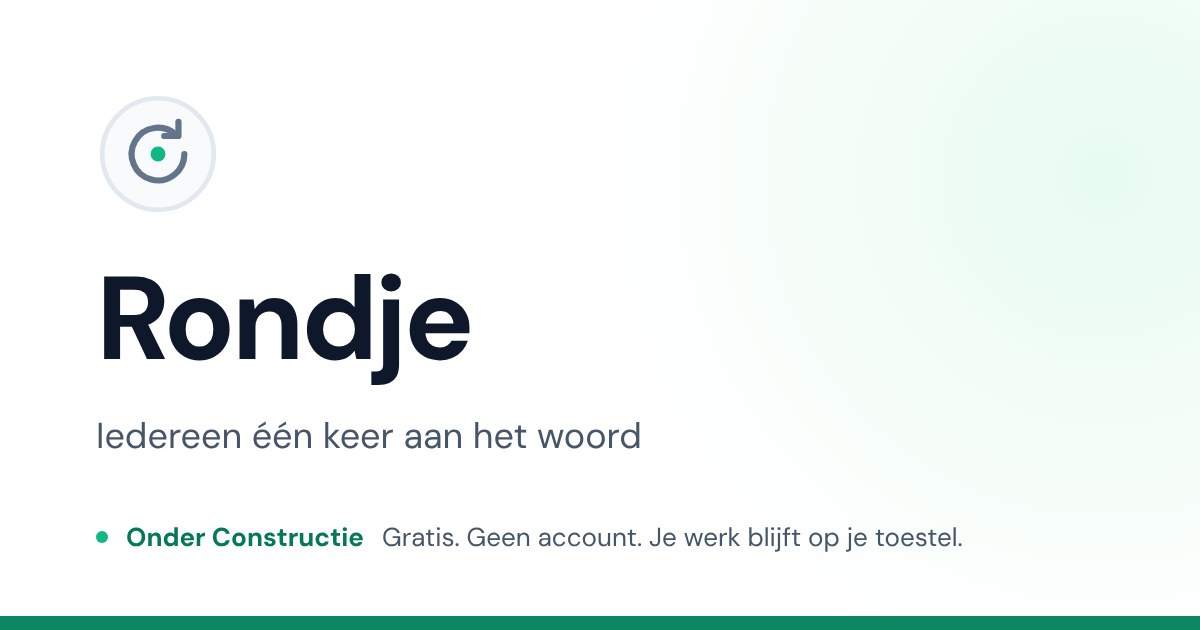
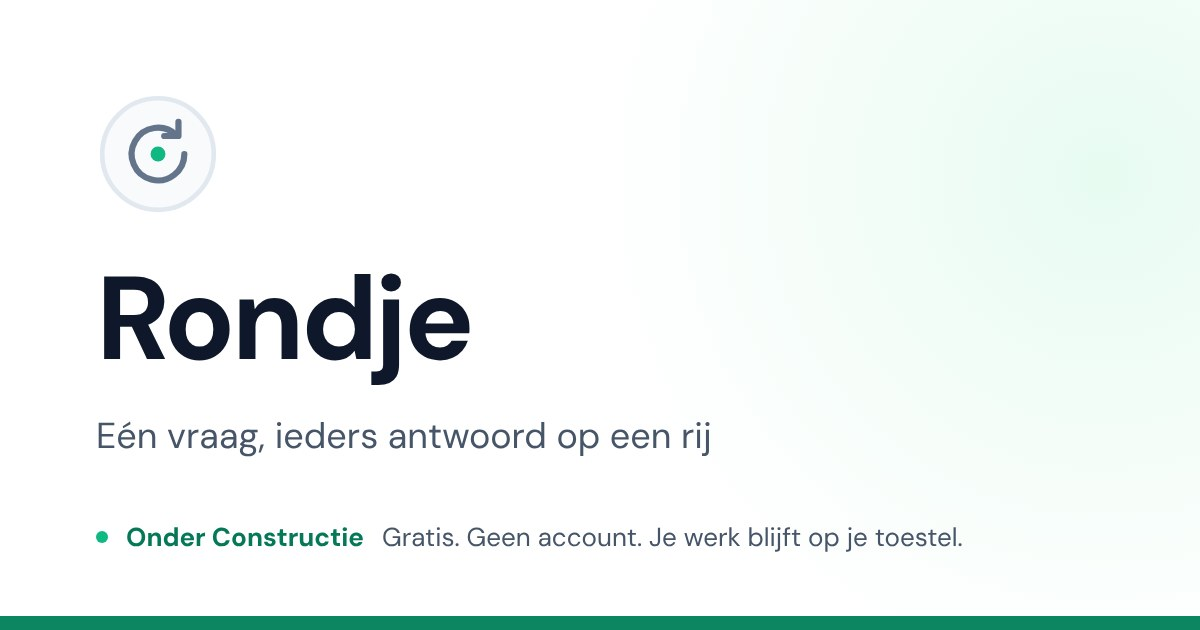
v17.01: Rondje
Claude-Session: https://claude.ai/code/session_01LjDcSPFUon18Kc1Xk33nzi

Changed region(s): [[0.0617, 0.6635, 0.5858, 0.7238]]

diff --git a/index.html b/index.html
@@ -2997,7 +2997,7 @@ window.ocProjectkiezer = function (plek, o) {
         <a class="ft-link" href="https://www.linkedin.com/in/bartel-volckaert-8a96842/" target="_blank" rel="noopener"><svg viewBox="0 0 24 24" fill="none" stroke="currentColor" stroke-width="2" stroke-linecap="round" stroke-linejoin="round" aria-hidden="true"><circle cx="12" cy="8" r="3.5"/><path d="M5 20a7 7 0 0 1 14 0"/></svg>Maker</a>
         <a class="ft-link" href="/privacy/#voorwaarden" target="_blank" rel="noopener"><svg viewBox="0 0 24 24" fill="none" stroke="currentColor" stroke-width="2" stroke-linecap="round" stroke-linejoin="round" aria-hidden="true"><circle cx="12" cy="12" r="9"/><path d="M12 11v5M12 7.5v.01"/></svg>Disclaimer</a>
       </nav>
-      <p class="ft-meta"><button class="ft-film" id="film-open" type="button" aria-haspopup="dialog" aria-label="Bekijk de film (34 seconden)" title="Bekijk de film (34 s)"><svg viewBox="0 0 24 24" aria-hidden="true"><circle cx="12" cy="12" r="10" fill="#ecfdf5" stroke="#a7f3d0" stroke-width="1.5"/><path d="M10 8.5v7l6-3.5Z" fill="#059669"/></svg><span>Film</span></button><button class="ft-film ft-inst" id="ft-app" type="button" hidden aria-label="Installeer de app"><img src="/app/icon.svg" alt="" width="22" height="22"><span>Installeer</span></button><span class="ft-dot" aria-hidden="true"></span><span class="status" id="status"><span class="dot"></span><span id="status-text">Alleen online</span></span><span class="ft-dot" aria-hidden="true"></span><span class="app-version" title="Versie van de app">v17.00</span></p>
+      <p class="ft-meta"><button class="ft-film" id="film-open" type="button" aria-haspopup="dialog" aria-label="Bekijk de film (34 seconden)" title="Bekijk de film (34 s)"><svg viewBox="0 0 24 24" aria-hidden="true"><circle cx="12" cy="12" r="10" fill="#ecfdf5" stroke="#a7f3d0" stroke-width="1.5"/><path d="M10 8.5v7l6-3.5Z" fill="#059669"/></svg><span>Film</span></button><button class="ft-film ft-inst" id="ft-app" type="button" hidden aria-label="Installeer de app"><img src="/app/icon.svg" alt="" width="22" height="22"><span>Installeer</span></button><span class="ft-dot" aria-hidden="true"></span><span class="status" id="status"><span class="dot"></span><span id="status-text">Alleen online</span></span><span class="ft-dot" aria-hidden="true"></span><span class="app-version" title="Versie van de app">v17.01</span></p>
     </div>
   </footer>
   <dialog class="film" id="film" aria-labelledby="film-h">

diff --git a/rondje/index.html b/rondje/index.html
@@ -14,7 +14,7 @@
 <meta property="og:image" content="https://onderconstructie.app/og/rondje.jpg">
 <meta property="og:image:width" content="1200">
 <meta property="og:image:height" content="630">
-<meta property="og:image:alt" content="Rondje. Iedereen één keer aan het woord">
+<meta property="og:image:alt" content="Rondje. Eén vraag, ieders antwoord op een rij">
 <meta name="twitter:card" content="summary_large_image">
 <!-- /oc-delen -->
 <meta name="viewport" content="width=device-width, initial-scale=1, viewport-fit=cover">
@@ -23,7 +23,7 @@
 <meta name="oc:groep" content="projecten">
 <meta name="oc:labels" content="vergaderen">
 <meta name="oc:pdca" content="do">
-<meta name="oc:kort" content="Iedereen één keer aan het woord">
+<meta name="oc:kort" content="Eén vraag, ieders antwoord op een rij">
 <meta name="oc:volgorde" content="83">
 <meta name="oc:opslag" content="rondje.v1, rondje.v1.kapot*">
 <meta name="oc:titel" content="Rondje">
@@ -1445,7 +1445,7 @@ window.ocProjectkiezer = function (plek, o) {
             <svg aria-hidden="true" xmlns="http://www.w3.org/2000/svg" viewBox="0 0 40 40" fill="none" stroke-width="2" stroke-linecap="round" stroke-linejoin="round"><circle cx="20" cy="20" r="18" fill="#f8fafc" stroke="#e2e8f0" stroke-width="1.5"/><path d="M28.5 20a8.5 8.5 0 1 1-2.6-6.1" stroke="#64748b"/><path d="M26.6 9.6v4.6H22" stroke="#64748b"/><circle cx="20" cy="20" r="2.4" fill="#10b981" stroke="none"/></svg>
         </div>
         <h1 class="title">Rondje</h1>
-        <p class="subtitle">Iedereen één keer aan het woord</p>
+        <p class="subtitle">Eén vraag, ieders antwoord op een rij</p>
         <div class="oc-kop-project" id="ocKiezer"></div>
         <div class="oc-kop-acties"><div class="menu-wrap">
                     <button class="icon-btn" id="menu-btn" type="button" aria-label="Meer acties" aria-haspopup="true" aria-expanded="false" aria-controls="menu"><svg viewBox="0 0 24 24" fill="currentColor" aria-hidden="true"><circle cx="12" cy="5" r="1.8"/><circle cx="12" cy="12" r="1.8"/><circle cx="12" cy="19" r="1.8"/></svg></button>

diff --git a/sw.js b/sw.js
@@ -12,7 +12,7 @@
   - Een nieuwe versie van de service worker wacht. De app toont "Nieuwe versie klaar" met Vernieuwen;
     pas dan wisselt hij. Nooit stil wisselen terwijl je werkt.
 */
-const VERSION = 'oc-app-v17.00';   // in de app getoond als v16.50
+const VERSION = 'oc-app-v17.01';   // in de app getoond als v16.50
 // Lettertypes en bibliotheken hebben vaste bestandsnamen (met versienummer): die bewaren we apart,
 // zodat een nieuwe versie van de app ze niet opnieuw moet downloaden.
 const STATIC = 'oc-static-1';
